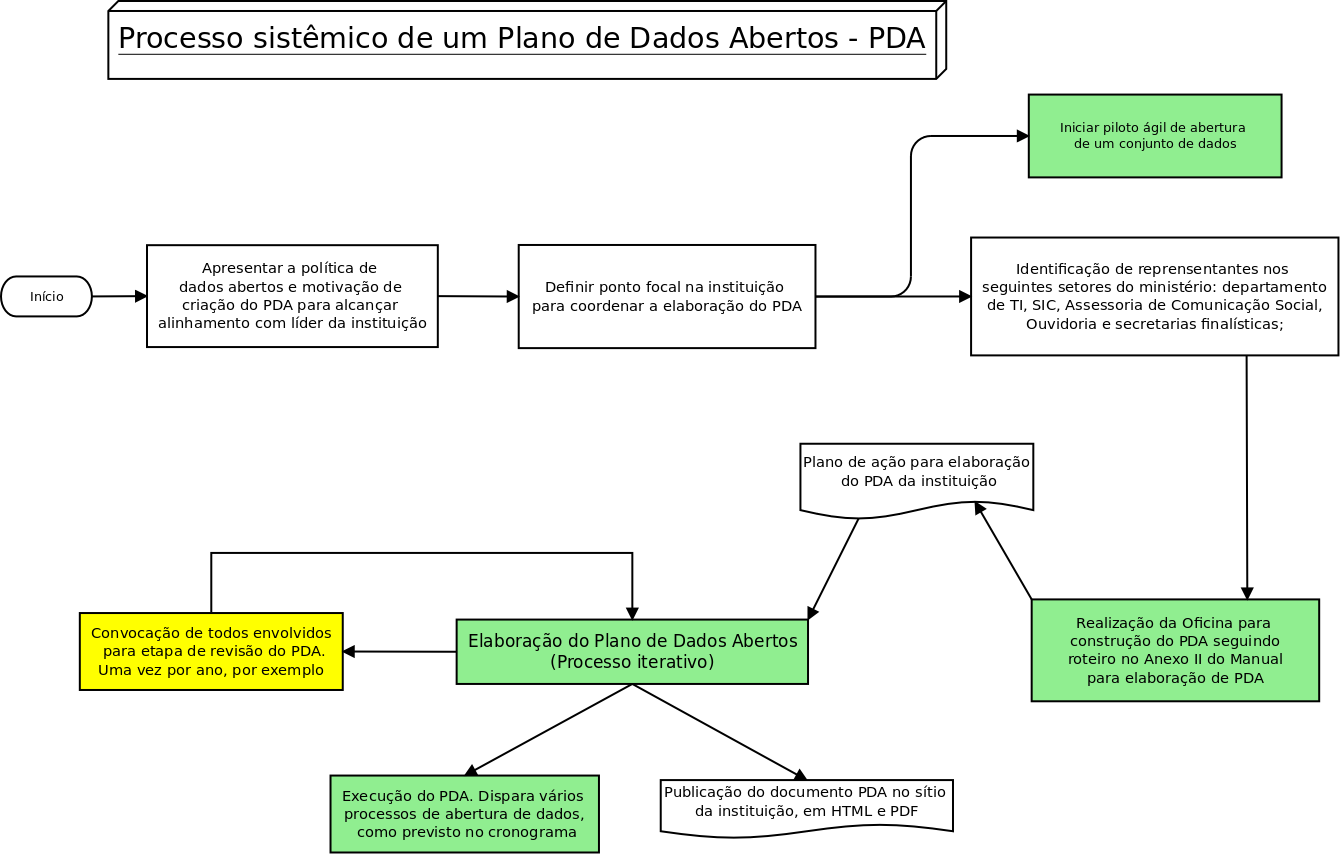
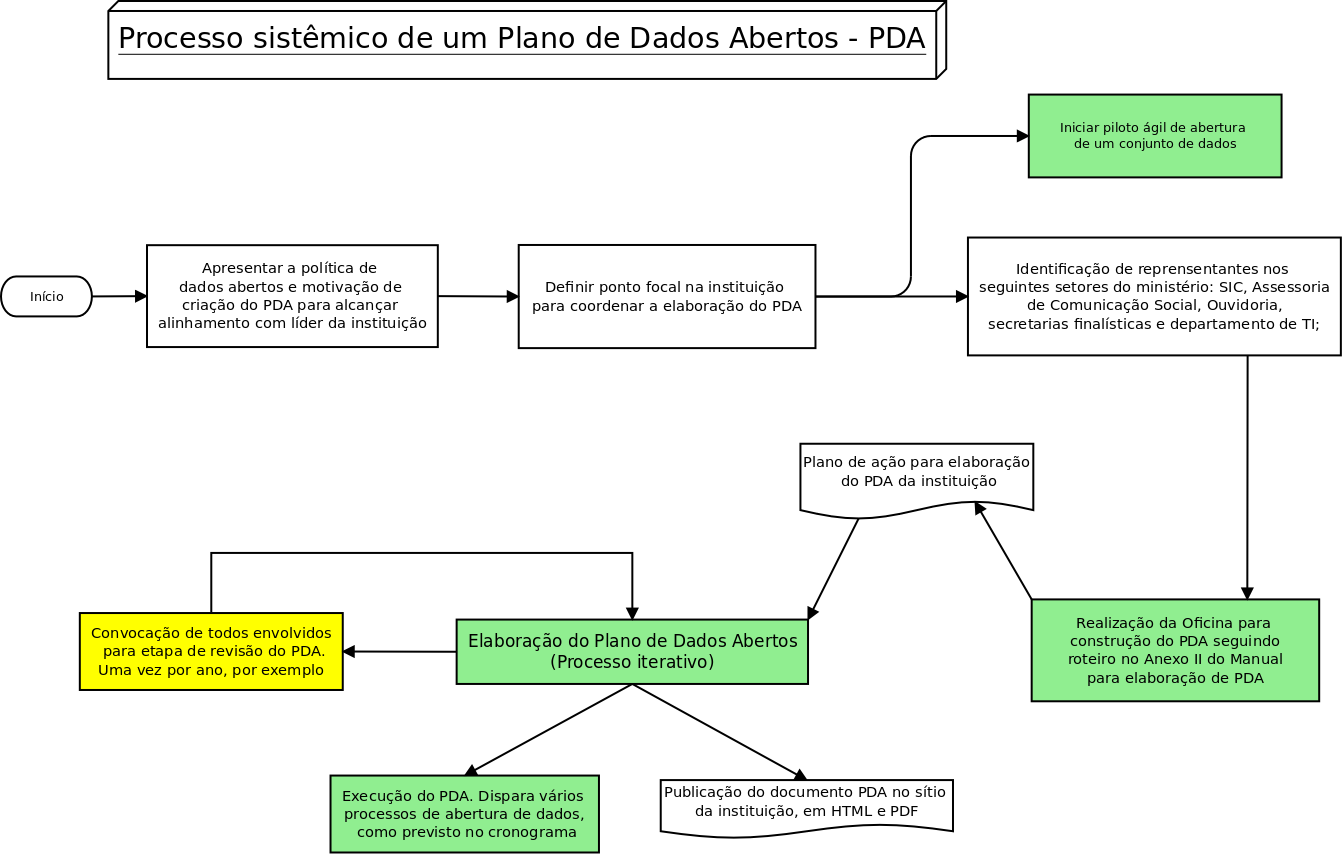
novo build com uma série de alterações

diff --git a/Mapa-de-decisões-tecnológicas/index.html b/Mapa-de-decisões-tecnológicas/index.html
@@ -1,0 +1,108 @@
+<html class="no-js" lang="en">
+<head>
+    <meta http-equiv="Content-Type" content="text/html; charset=UTF-8">  
+<!--[if IE 8 ]>    <html class="no-js ie8" lang="en"> <![endif]--><!--[if (gte IE 9)|!(IE)]><!--> <!--<![endif]-->
+
+    <meta charset="utf-8">
+    <meta http-equiv="X-UA-Compatible" content="IE=edge,chrome=1">
+    <title>Mapa de decisões - Kit de Dados Abertos</title>
+    <meta name="description" content="Neste mapa são apresentadas diversas formas de publicação de dados abertos, dando ao gestor parâmetros de apoio à decisão.">
+    
+    <link rel="stylesheet" href="/stylesheets/green.min.css" type="text/css" media="screen" charset="utf-8">
+    <link rel="stylesheet" href="/stylesheets/application.css" type="text/css" media="screen" charset="utf-8">
+    <link rel="stylesheet" type="text/css" media="screen" href="/stylesheets/stylesheet.css">
+
+</head>
+
+<body class="index              DadosGovBrHomeController              False   ">
+    <div id="barra-brasil" style="background:#7F7F7F; height: 20px; padding:0 0 0 10px;display:block;"> 
+	    <ul id="menu-barra-temp" style="list-style:none;">
+		    <li style="display:inline; float:left;padding-right:10px; margin-right:10px; border-right:1px solid #EDEDED"><a href="http://brasil.gov.br" style="font-family:sans,sans-serif; text-decoration:none; color:white;">Portal do Governo Brasileiro</a></li> 
+		    <li><a style="font-family:sans,sans-serif; text-decoration:none; color:white;" href="http://epwg.governoeletronico.gov.br/barra/atualize.html">Atualize sua Barra de Governo</a></li>
+	    </ul>
+    </div>
+    <header class="masthead">
+        
+        <div class="container">
+                <ul id="accessibility">
+					<li>
+						<a id="link-conteudo" href="#main_content" accesskey="1">
+							Ir para o conteúdo
+							<span>1</span>
+						</a>
+					</li>
+					<li>
+						<a id="link-navegacao" href="#menu-horizontal" accesskey="2">
+							Ir para o menu
+							<span>2</span>
+						</a>
+					</li>
+					<li>
+						<a id="link-rodape" href="#footer_wrap" accesskey="4">
+							Ir para o rodapé
+							<span>4</span>
+						</a>
+					</li>
+				</ul>
+            <div id="zoom">
+              <a href="http://dados.gov.br/#" onclick="resizeText(1)">A+</a>
+              <a href="http://dados.gov.br/#" onclick="resizeText(-1)">A-</a>
+            </div>
+            <h1 id="site_logo">
+                <a href="/">
+                    <span id="portal-type"></span>
+                    <span id="portal-title">Kit de dados abertos</span>
+                    <span id="portal-description">Implementando uma política de dados abertos</span>
+                </a>
+            </h1>
+              <ul id="news">
+                  <li id="feed"><a rel="feed" href="http://dados.gov.br/feed/" title="Inscrever-se no feed de notícias" class="hs-rss-link">feed</a></li>
+                  <li id="twitter"><a href="http://twitter.com/dadosgovbr" title="Microblog no Twitter">twitter</a></li>
+                  <li id="github"><a href="https://github.com/dadosgovbr" title="Códigos fonte de projetos do dados.gov.br no Github">Códigos fonte de projetos do dados.gov.br no Github</a></li>
+              </ul>
+        </div>
+          
+    </header>
+            
+
+    <!-- MAIN CONTENT -->
+    <div id="main_content_wrap" class="outer">
+        <section id="main_content" class="inner">
+      <!---
+Abaixo o código HTML da tabela, markdown não suporta colspan. Melhorar isso =p
+--->
+
+<table><colgroup><col width="118" /><col width="424" /><col width="302" /><col width="200" /><col width="117" /></colgroup><tr><td><p>Complexidade</p></td><td><p>Solução</p></td><td><p>Pré-requisitos</p></td><td><p>Prazo de implementação</p></td><td> </td></tr><tr><td rowspan="2"><p>1</p></td><td rowspan="2"><p>Publicar dump da base de dados</p></td><td><p>Acesso à base de dados</p></td><td rowspan="2"><p>Curto<br /></p></td><td> </td></tr><tr><td><p>Servidor web para arquivos</p></td><td> </td></tr><tr><td rowspan="2"><p>2</p></td><td rowspan="2"><p>Publicar dados em arquivos CSV</p></td><td><p>Mecanismo de ETL (caso esteja em banco relacional)</p></td><td rowspan="2"><p>Curto<br /></p></td><td> </td></tr><tr><td><p>Servidor web para arquivos</p></td><td> </td></tr><tr><td rowspan="3"><p>3</p></td><td rowspan="3"><p>Publicar dados em arquivos JSON / XML</p></td><td><p>Mecanismo de ETL (caso esteja em banco relacional)</p></td><td rowspan="3"><p>Médio</p></td><td> </td></tr><tr><td><p>Serviço de desenvolvimento</p></td><td> </td></tr><tr><td><p>Servidor web para arquivos</p></td><td> </td></tr><tr><td rowspan="2"><p>4</p></td><td rowspan="2"><p>Desenvolver módulo de dados abertos em sistema existente</p></td><td><p>Serviço de desenvolvimento</p></td><td rowspan="2"><p>Longo</p></td><td> </td></tr><tr><td><p>Servidor web para deploy da nova solução</p></td><td> </td></tr><tr><td rowspan="3"><p>5</p></td><td rowspan="3"><p>Desenvolver API RESTful de dados abertos desacoplada da solução</p></td><td><p>Mecanismo de ETL</p></td><td rowspan="3"><p>Longo</p></td><td> </td></tr><tr><td><p>Serviço de desenvolvimento</p></td><td> </td></tr><tr><td><p>Servidor web para deploy da nova solução</p></td><td> </td></tr><tr><td rowspan="3"><p>6</p></td><td rowspan="3"><p>Novo Sistema, com a gestão de dados incorporados em sua arquitetura</p></td><td><p>Mecanismo de ETL</p></td><td rowspan="3"><p>Longo</p></td><td> </td></tr><tr><td><p>Serviço de desenvolvimento</p></td><td> </td></tr><tr><td><p>Servidor web para deploy da nova solução</p></td><td> </td></tr><tr><td rowspan="3"><p>8</p></td><td rowspan="3"><p>Publicar dados em arquivos RDF</p></td><td><p>Ontologia da área do conhecimento do sistema</p></td><td rowspan="3"><p>Longo</p></td><td> </td></tr><tr><td><p>Mecanismo de ETL</p></td><td> </td></tr><tr><td><p>Servidor web para arquivos</p></td><td> </td></tr><tr><td rowspan="3"><p>9</p></td><td rowspan="3"><p>Disponibilizar dados por Endpoint SPARQL</p></td><td><p>Ontologia da área do conhecimento do sistema</p></td><td rowspan="3"><p>Mais Longo</p></td><td> </td></tr><tr><td><p>Serviço de ETL</p></td><td> </td></tr><tr><td><p>Banco de dados de triplas</p></td><td> </td></tr><tr><td rowspan="5"><p>11</p></td><td rowspan="5"><p>Publicar dados em API de dados ligados (Linked Data)</p></td><td><p>Ontologia da área do conhecimento do sistema</p></td><td rowspan="5"><p>Mais Longo</p></td><td> </td></tr><tr><td><p>Banco de dados de triplas</p></td><td> </td></tr><tr><td><p>Serviço de desenvolvimento</p></td><td> </td></tr><tr><td><p>Mecanismo de ETL</p></td><td> </td></tr><tr><td><p>Servidor web para deploy da nova solução</p></td><td> </td></tr></table>
+
+<ol>
+  <li>Publicar dump da base de dados</li>
+  <li>Publicar dados em arquivos CSV</li>
+  <li>Publicar dados em arquivos JSON / XML</li>
+  <li>Desenvolver módulo de dados abertos em sistema existente</li>
+  <li>Desenvolver API RESTful de dados abertos desacoplada da solução</li>
+  <li>Novo Sistema, com a gestão de dados incorporados em sua arquitetura</li>
+  <li>Publicar dados em arquivos RDF</li>
+  <li>Disponibilizar dados por Endpoint SPARQL</li>
+  <li>Publicar dados em API de dados ligados (Linked Data)</li>
+</ol>
+
+
+        </section>
+    </div>
+      
+ <!-- FOOTER -->
+<div id="footer_wrap" name="footer" class="outer">
+<footer class="inner">
+<!--
+Utilizando Tema Slate, créditos: Jason Costello
+<p class="copyright">Slate theme maintained by <a href="https://github.com/jsncostello">Jason Costello</a></p>
+<p>Published with <a href="http://pages.github.com">GitHub Pages</a></p>
+-->
+<p>&nbsp;</p>
+<p>&nbsp;</p>
+</footer>
+</div>
+<script defer async src="//barra.brasil.gov.br/barra.js" type="text/javascript"></script>
+</body>
+</html>
+

diff --git a/Processo-sistêmico/index.html b/Processo-sistêmico/index.html
@@ -63,11 +63,6 @@
         </div>
           
     </header>
-    
-<script src="//barra.brasil.gov.br/barra.js" type="text/javascript"></script>
-
-</body>
-</html>
             
 
     <!-- MAIN CONTENT -->
@@ -124,11 +119,11 @@ ajudando na tomada de decisões durante as próximas atividades de abertura.</p>
 <p>Identificação de reprensentantes nos seguintes setores da instituição:</p>
 
 <ul>
-  <li>área de tecnologia da informação, </li>
   <li>Serviço de Informação ao Cidadão,</li>
   <li>Assessoria de Comunicação Social,</li>
-  <li>Ouvidoria e</li>
-  <li>áreas finalísticas</li>
+  <li>Ouvidoria,</li>
+  <li>Áreas finalísticas e</li>
+  <li>Área de Tecnologia da Informação </li>
 </ul>
 
 <p>Esses representantes possuem todo o conhecimento necessário para a criação de 
@@ -210,6 +205,7 @@ Utilizando Tema Slate, créditos: Jason Costello
 <p>&nbsp;</p>
 </footer>
 </div>
+<script defer async src="//barra.brasil.gov.br/barra.js" type="text/javascript"></script>
 </body>
 </html>
 

diff --git a/Abertura-de-dados/index.html b/Abertura-de-dados/index.html
@@ -63,11 +63,6 @@
         </div>
           
     </header>
-    
-<script src="//barra.brasil.gov.br/barra.js" type="text/javascript"></script>
-
-</body>
-</html>
             
 
     <!-- MAIN CONTENT -->
@@ -334,6 +329,7 @@ Utilizando Tema Slate, créditos: Jason Costello
 <p>&nbsp;</p>
 </footer>
 </div>
+<script defer async src="//barra.brasil.gov.br/barra.js" type="text/javascript"></script>
 </body>
 </html>
 

diff --git a/Elaboração-do-PDA/index.html b/Elaboração-do-PDA/index.html
@@ -63,11 +63,6 @@
         </div>
           
     </header>
-    
-<script src="//barra.brasil.gov.br/barra.js" type="text/javascript"></script>
-
-</body>
-</html>
             
 
     <!-- MAIN CONTENT -->
@@ -170,6 +165,7 @@ Utilizando Tema Slate, créditos: Jason Costello
 <p>&nbsp;</p>
 </footer>
 </div>
+<script defer async src="//barra.brasil.gov.br/barra.js" type="text/javascript"></script>
 </body>
 </html>
 

diff --git a/Execução-do-PDA/index.html b/Execução-do-PDA/index.html
@@ -63,11 +63,6 @@
         </div>
           
     </header>
-    
-<script src="//barra.brasil.gov.br/barra.js" type="text/javascript"></script>
-
-</body>
-</html>
             
 
     <!-- MAIN CONTENT -->
@@ -132,6 +127,7 @@ Utilizando Tema Slate, créditos: Jason Costello
 <p>&nbsp;</p>
 </footer>
 </div>
+<script defer async src="//barra.brasil.gov.br/barra.js" type="text/javascript"></script>
 </body>
 </html>
 

diff --git a/Glossário/index.html b/Glossário/index.html
@@ -63,11 +63,6 @@
         </div>
           
     </header>
-    
-<script src="//barra.brasil.gov.br/barra.js" type="text/javascript"></script>
-
-</body>
-</html>
             
 
     <!-- MAIN CONTENT -->
@@ -340,6 +335,7 @@ Utilizando Tema Slate, créditos: Jason Costello
 <p>&nbsp;</p>
 </footer>
 </div>
+<script defer async src="//barra.brasil.gov.br/barra.js" type="text/javascript"></script>
 </body>
 </html>
 

diff --git a/Piloto-ágil/index.html b/Piloto-ágil/index.html
@@ -63,11 +63,6 @@
         </div>
           
     </header>
-    
-<script src="//barra.brasil.gov.br/barra.js" type="text/javascript"></script>
-
-</body>
-</html>
             
 
     <!-- MAIN CONTENT -->
@@ -129,6 +124,7 @@ Utilizando Tema Slate, créditos: Jason Costello
 <p>&nbsp;</p>
 </footer>
 </div>
+<script defer async src="//barra.brasil.gov.br/barra.js" type="text/javascript"></script>
 </body>
 </html>
 

diff --git a/index.html b/index.html
@@ -63,11 +63,6 @@
         </div>
           
     </header>
-    
-<script src="//barra.brasil.gov.br/barra.js" type="text/javascript"></script>
-
-</body>
-</html>
             
 
     <!-- MAIN CONTENT -->
@@ -177,6 +172,7 @@ Utilizando Tema Slate, créditos: Jason Costello
 <p>&nbsp;</p>
 </footer>
 </div>
+<script defer async src="//barra.brasil.gov.br/barra.js" type="text/javascript"></script>
 </body>
 </html>
 

diff --git a/vantagens-dados-abertos/index.html b/vantagens-dados-abertos/index.html
@@ -63,11 +63,6 @@
         </div>
           
     </header>
-    
-<script src="//barra.brasil.gov.br/barra.js" type="text/javascript"></script>
-
-</body>
-</html>
             
 
     <!-- MAIN CONTENT -->
@@ -126,6 +121,7 @@ Utilizando Tema Slate, créditos: Jason Costello
 <p>&nbsp;</p>
 </footer>
 </div>
+<script defer async src="//barra.brasil.gov.br/barra.js" type="text/javascript"></script>
 </body>
 </html>
 

diff --git a/deploy.md b/deploy.md
@@ -1,6 +1,6 @@
 O Código está sendo editado no master, criado localmente e enviado ao branch gh-pages
 
 Para fazer o deploy do jekyll, fazer ele servir localmente com o parametro baseURL.
-Esse parãmetro é importante pois no github a página está em /kit/:
+Esse parãmetro é importante para manter a integridade de links:
 
-bundle exec jekyll serve --baseurl "/kit/"
+bundle exec jekyll serve --baseurl "/"
